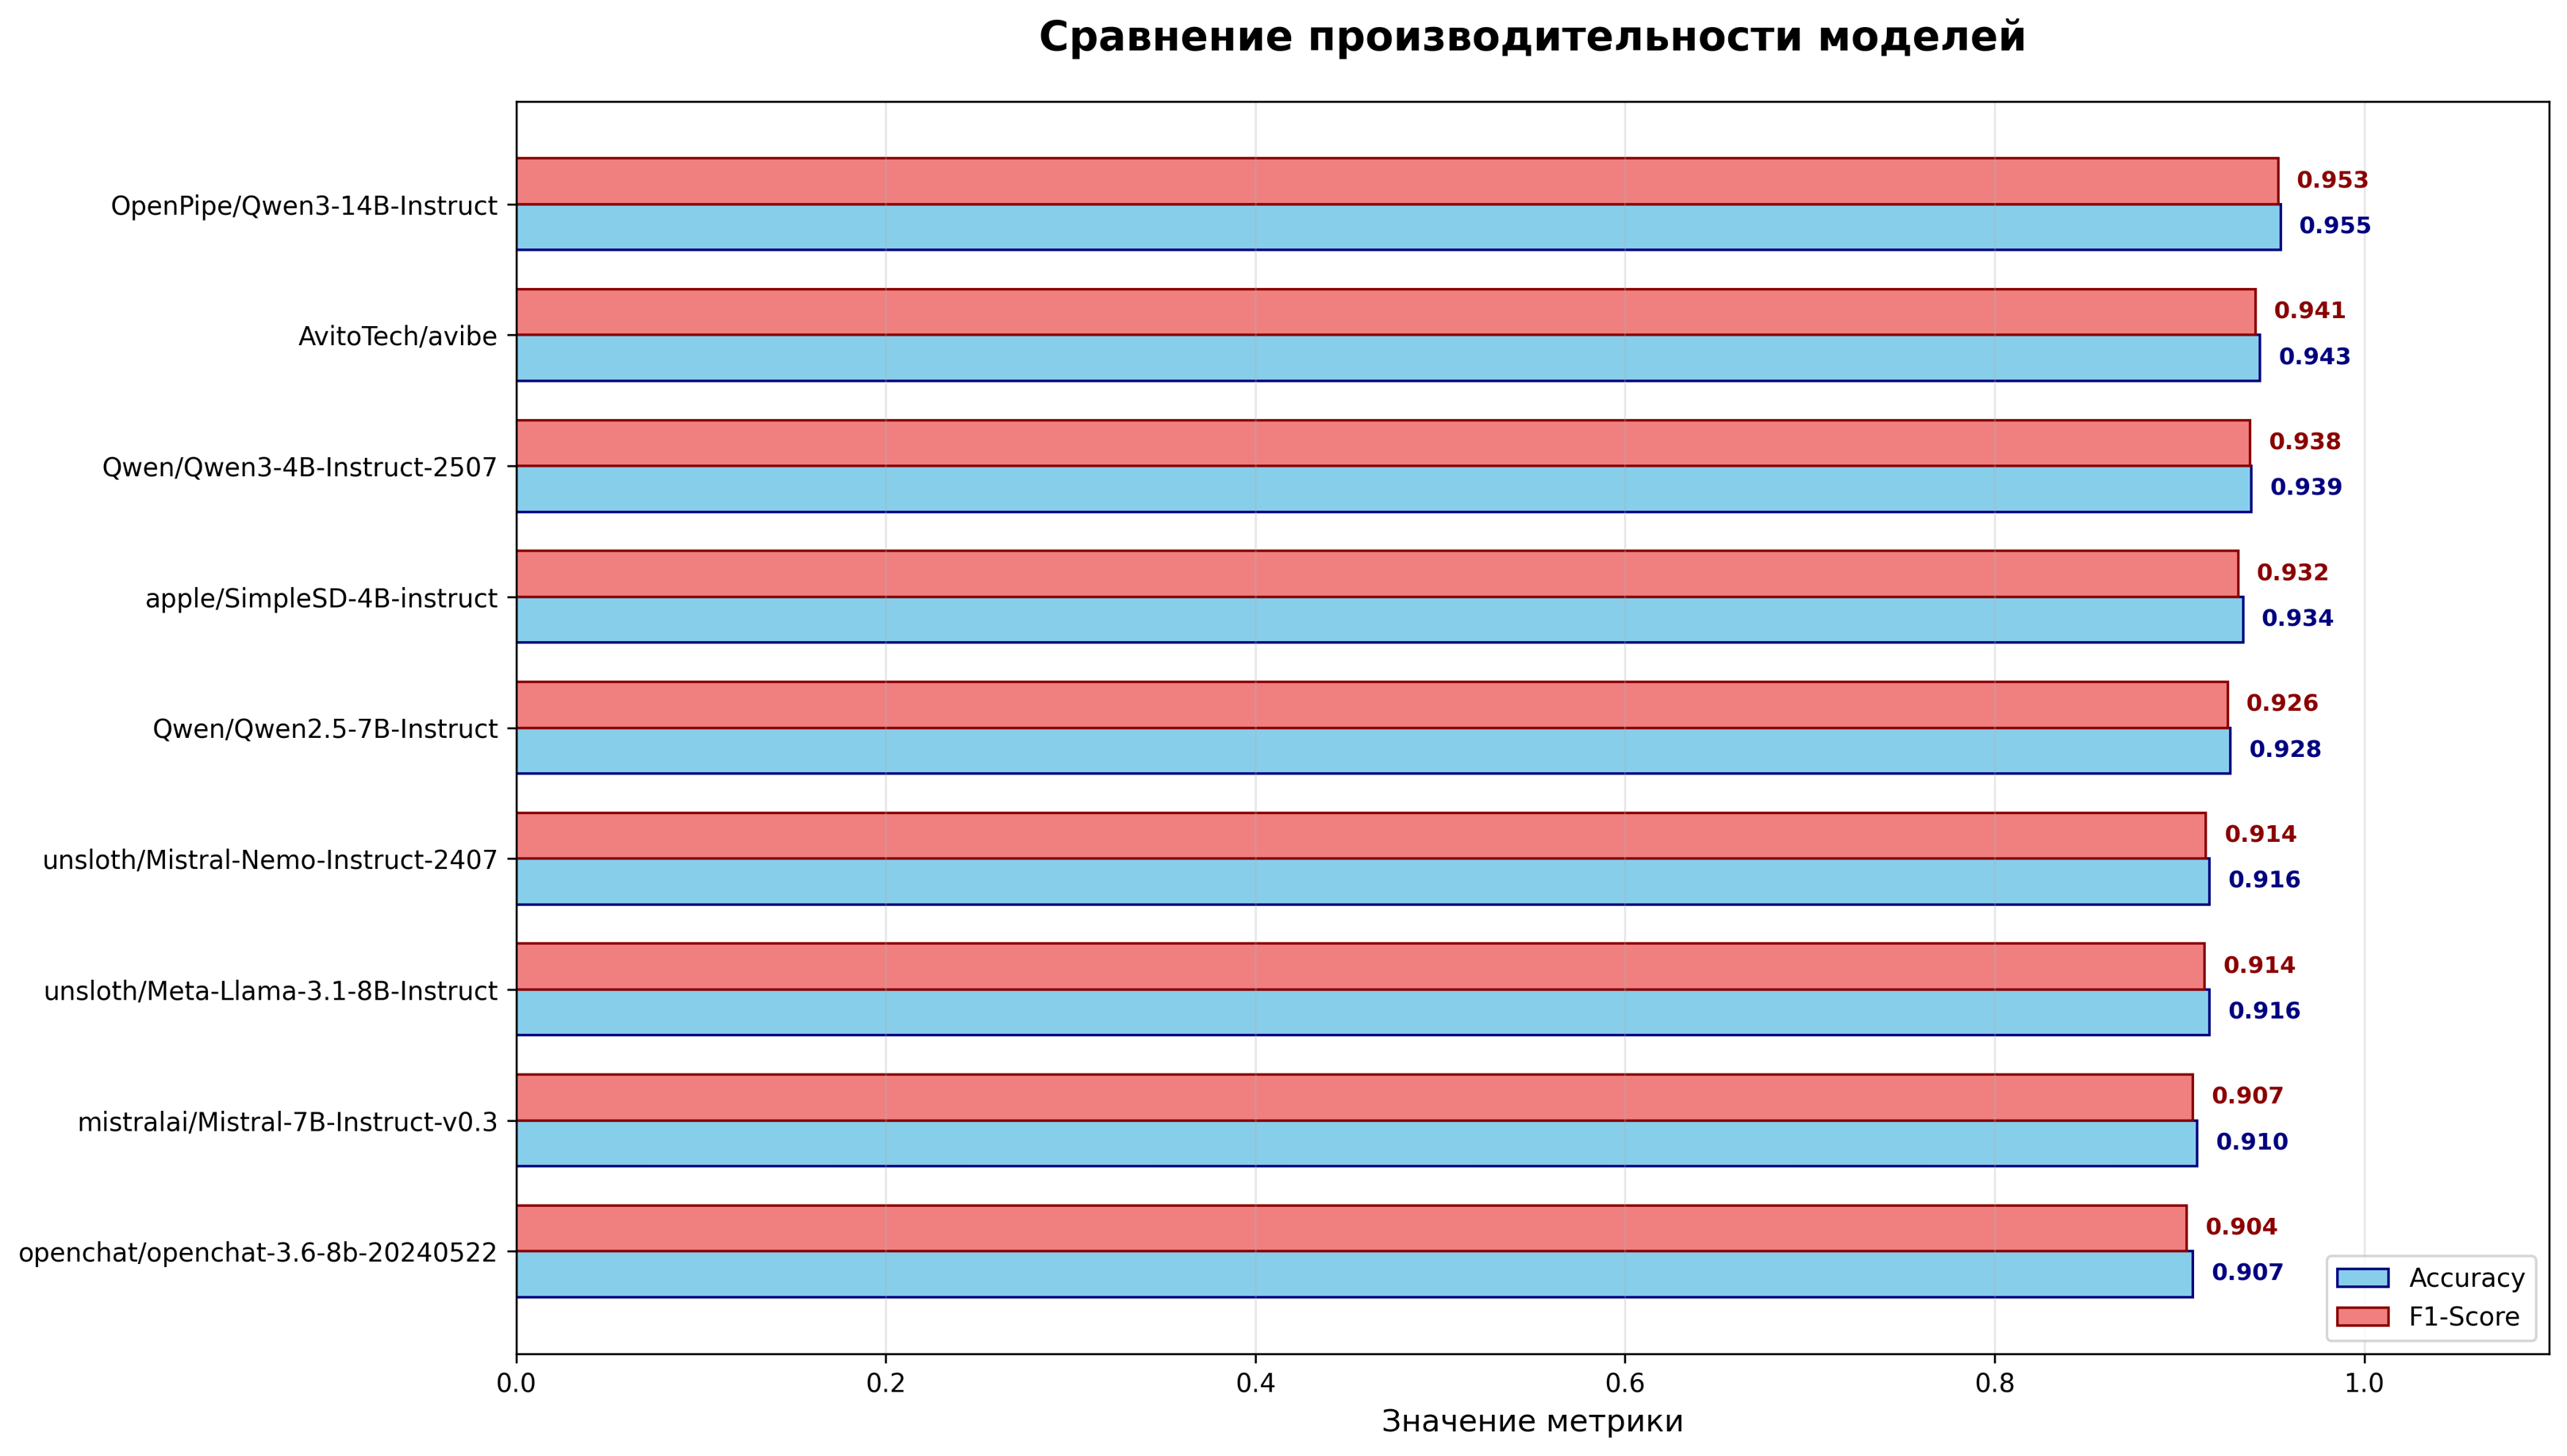
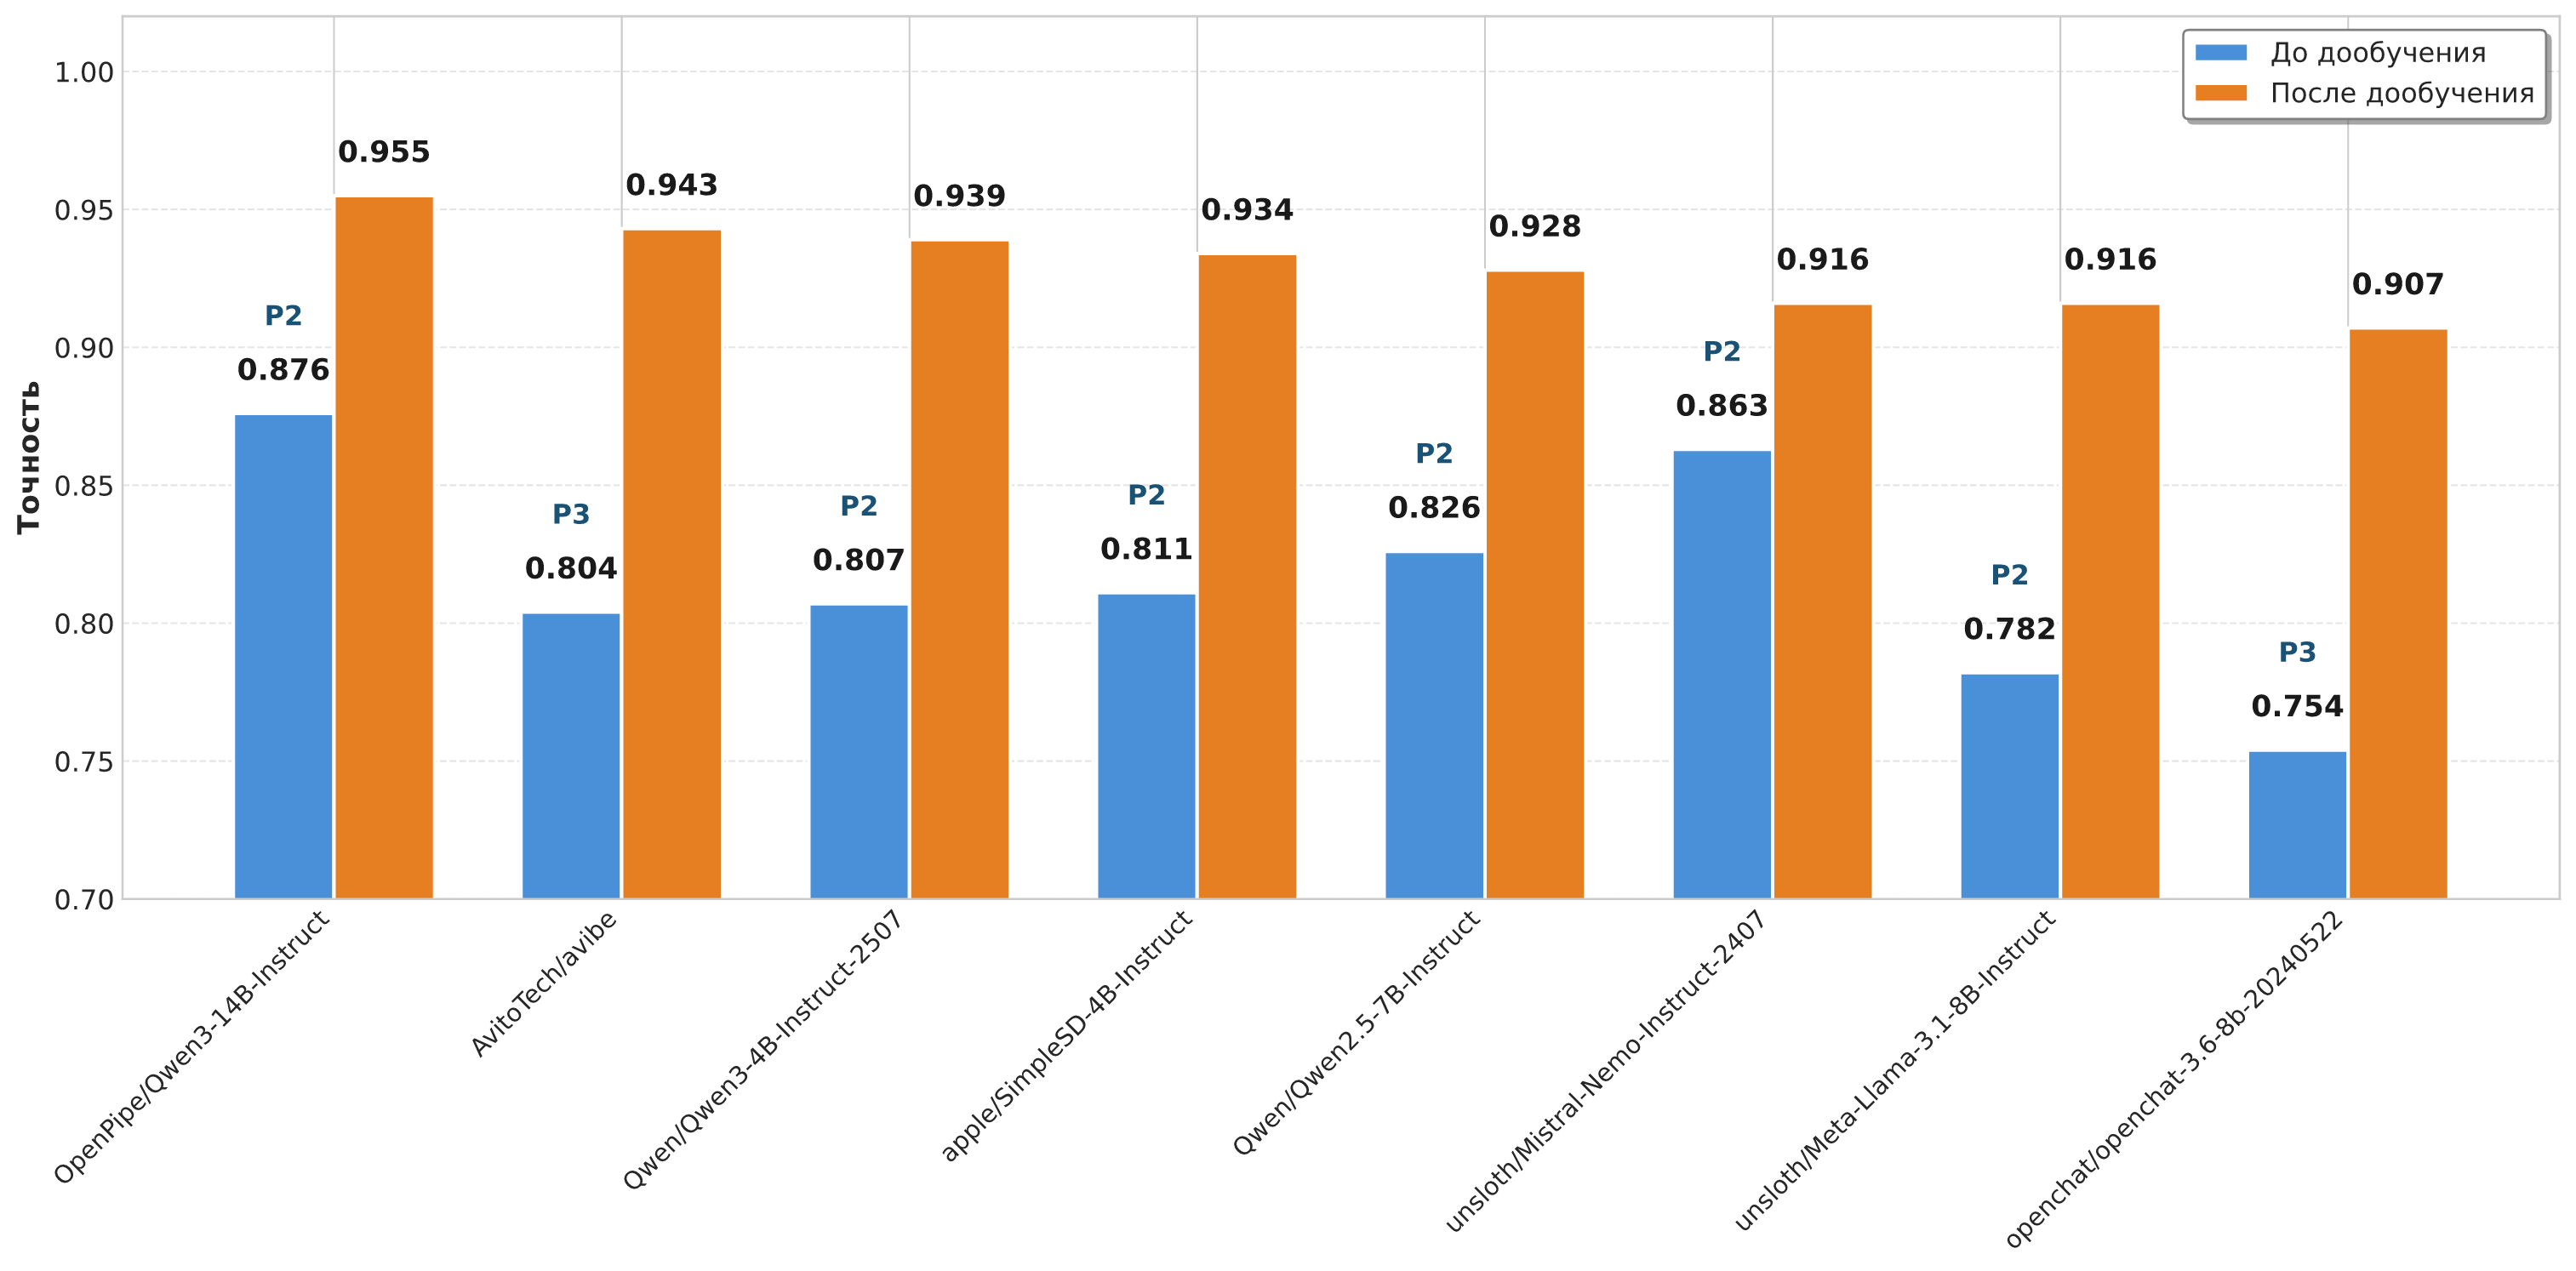
final touches

diff --git a/README.md b/README.md
@@ -1,6 +1,6 @@
 # Разработка алгоритма классификации запросов пользователя в свободной форме для AI агента для No-Code платформы SMILE
 
-## 0. Предислование
+## 0. Предисловие
 Данная НИР является продолжением работы 1го семестра. Подробнее [здесь](https://github.com/VladislavEvdokimov/Research_project_1sem_Evdokimov_V.B/tree/main)
 
 
@@ -41,7 +41,6 @@ SMILE.CLOUD — это облачная платформа, позволяюща
    - Провести внешнее тестирование с целью оценки качества классификационной способности обученной модели.
    
 
-### Многоагентная система обработки текстовых запросов
 
 ## 4. Методология
 
@@ -62,13 +61,9 @@ SMILE.CLOUD — это облачная платформа, позволяюща
     "Qwen/Qwen2.5-7B-Instruct",
     "unsloth/Meta-Llama-3.1-8B-Instruct",
     "openchat/openchat-3.6-8b-20240522",
-    "google/gemma-4-E2B-it",
-    "google/gemma-4-E4B-it",
     "AvitoTech/avibe",
     "OpenPipe/Qwen3-14B-Instruct",
     "unsloth/Mistral-Nemo-Instruct-2407",
-    'ai-sage/GigaChat3.1-10B-A1.8B-bf16',
-    "yandex/YandexGPT-5-Lite-8B-instruct",
 	
 4.2.3. **Fine-tuning Bert моделей LoRa методом**
    - Выбранные модели:
@@ -141,13 +136,13 @@ load_best_model_at_end=True,
 
 ### 5.3 Матрица ошибок наилучшей LLM модели
 
-Лучше всего предсказывается класс «Теоретический вопрос» - 99% точности, хуже – «взаимодействие с графом» - 88%.
+Лучше всего предсказывается класс «Анализ данных» - 100% точности, хуже – «взаимодействие с графом» - 88%.
 
 <p align="center">
 <img src="Рисунок5.png">
 </p>
 
-### 5.2 Результаты fine-tuning BERT
+### 5.4 Результаты fine-tuning BERT
 Наивысшая точность BERT модели на тестовом датасете ~93% после дообучения.
 
 <p align="center">
@@ -155,7 +150,7 @@ load_best_model_at_end=True,
 </p>
 
 
-### 5.3 Матрица ошибок наилучшей BERT модели
+### 5.5 Матрица ошибок наилучшей BERT модели
 
 Лучше всего предсказывается класс «Теоретический вопрос» - 98% точности, хуже – «анализ данных и взаимодействие с графом» - 84%.
 
@@ -164,7 +159,7 @@ load_best_model_at_end=True,
 </p>
 
 
-### 5.4 app.smilecloudclassifier.ru 
+### 5.6 app.smilecloudclassifier.ru 
 
 Был сделан сайт для легкого доступа для тестирования полученных моделей. Одновременно тестируются модель Qwen 3-4B и ru-en-RoSBERTa, но выводится ответ LLM. Все запросы и результаты классификации обоих моделей сохраняются на сервере. 
 
@@ -172,7 +167,7 @@ load_best_model_at_end=True,
 <img src="Рисунок7.png">
 </p>
 
-### 5.5 BERT vs LLM: анализ результатов внешенго тестирования 
+### 5.7 BERT vs LLM: анализ результатов внешенго тестирования 
 
 | Модель | Лучше всего | Проблема |
 |--------|-------------|----------|